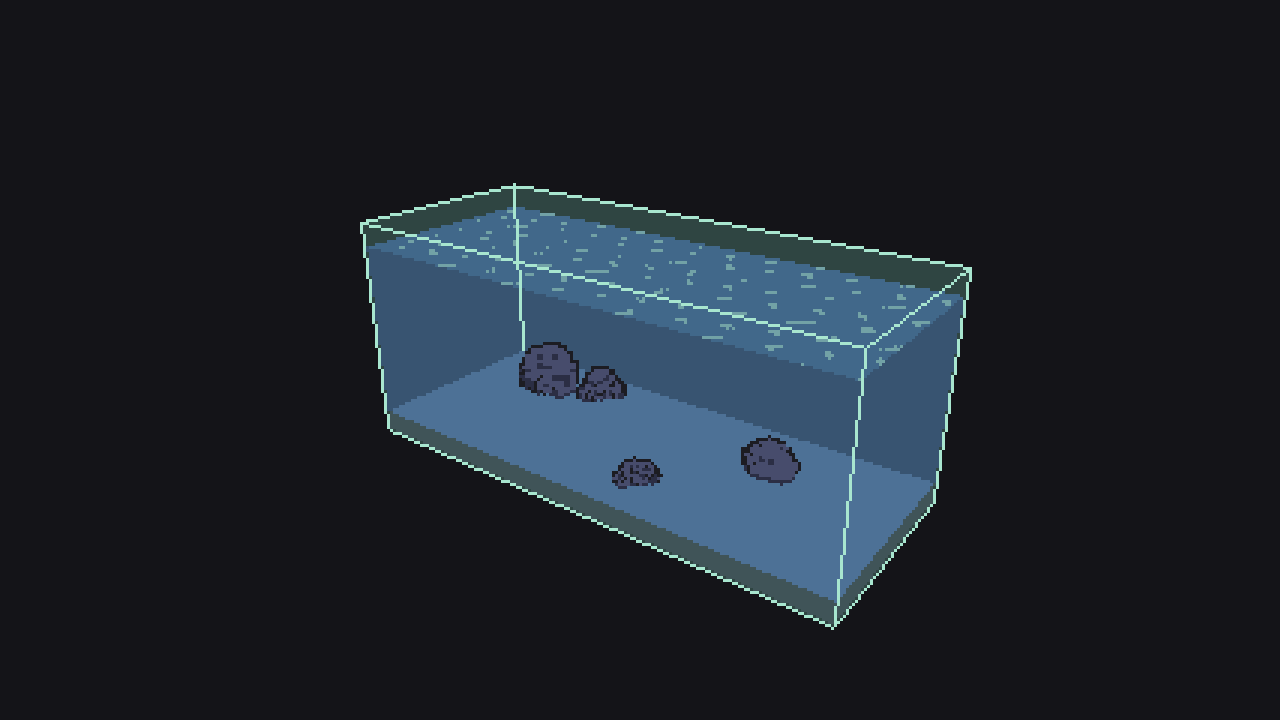
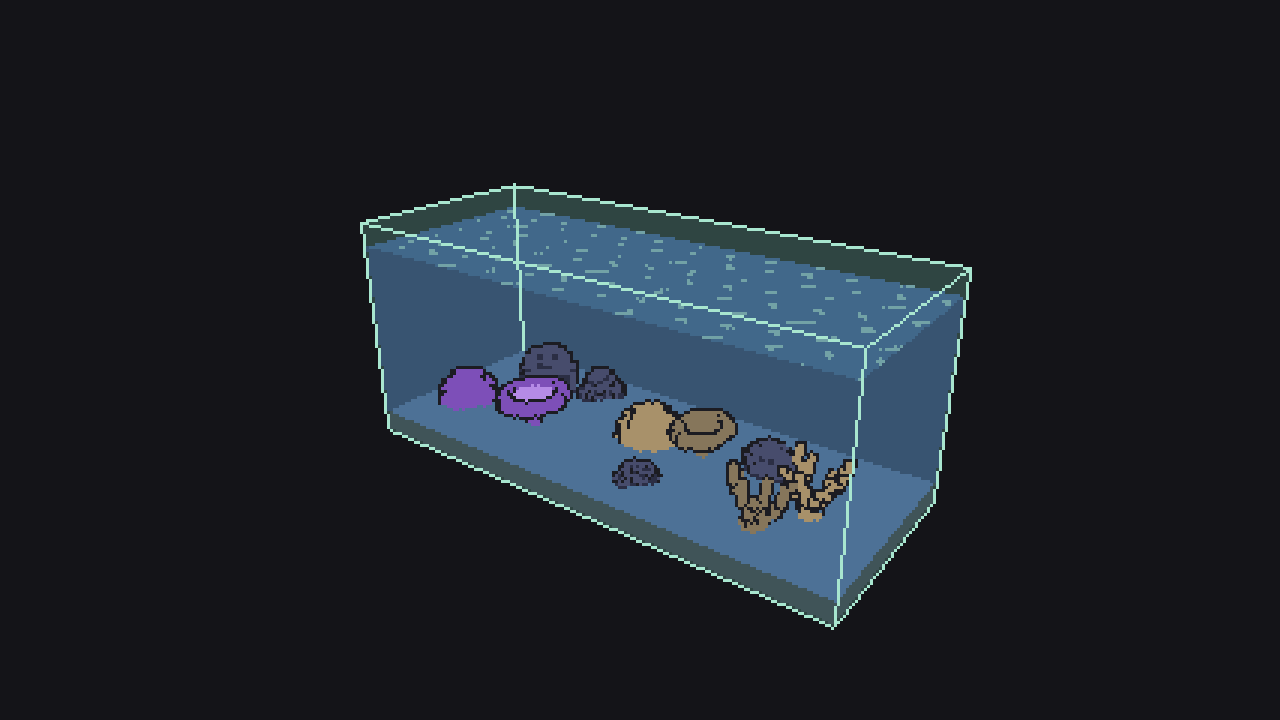
captures(c051): 5 angles + récif, coraux

Changed region(s): [[0.3438, 0.4889, 0.5938, 0.6417], [0.5625, 0.6111, 0.6875, 0.7333]]

diff --git a/captures/latest/SOURCE.md b/captures/latest/SOURCE.md
@@ -1,7 +1,7 @@
-# Captures du cycle 50 (QA)
+# Captures du cycle 51 (QA)
 
-- Branche : cycle/c050-recif, PR #156
-- Commit capturé : 90cda22 (90cda22)
+- Branche : cycle/c051-coraux-recif, PR #158
+- Commit capturé : bb92d80
 - Graine : 42 (captures.spec.ts)
 - Temps : simulation figée (contrat de capture)
-- Écart avec la série précédente : seuls recif-* (nouveaux) et front-panneau diffèrent ; la capture trajectoires-top, échouée une fois sous charge (screenshot SVG), est passée à la relance.
+- Écart avec la série précédente (c050) : seuls recif-* (coraux) et front-panneau (non reproductible, voir PIEGES) diffèrent ; les 41 autres sont identiques à l'octet.

diff --git a/captures/c051/SOURCE.md b/captures/c051/SOURCE.md
@@ -1,0 +1,7 @@
+# Captures du cycle 51 (QA)
+
+- Branche : cycle/c051-coraux-recif, PR #158
+- Commit capturé : bb92d80
+- Graine : 42 (captures.spec.ts)
+- Temps : simulation figée (contrat de capture)
+- Écart avec la série précédente (c050) : seuls recif-* (coraux) et front-panneau (non reproductible, voir PIEGES) diffèrent ; les 41 autres sont identiques à l'octet.
